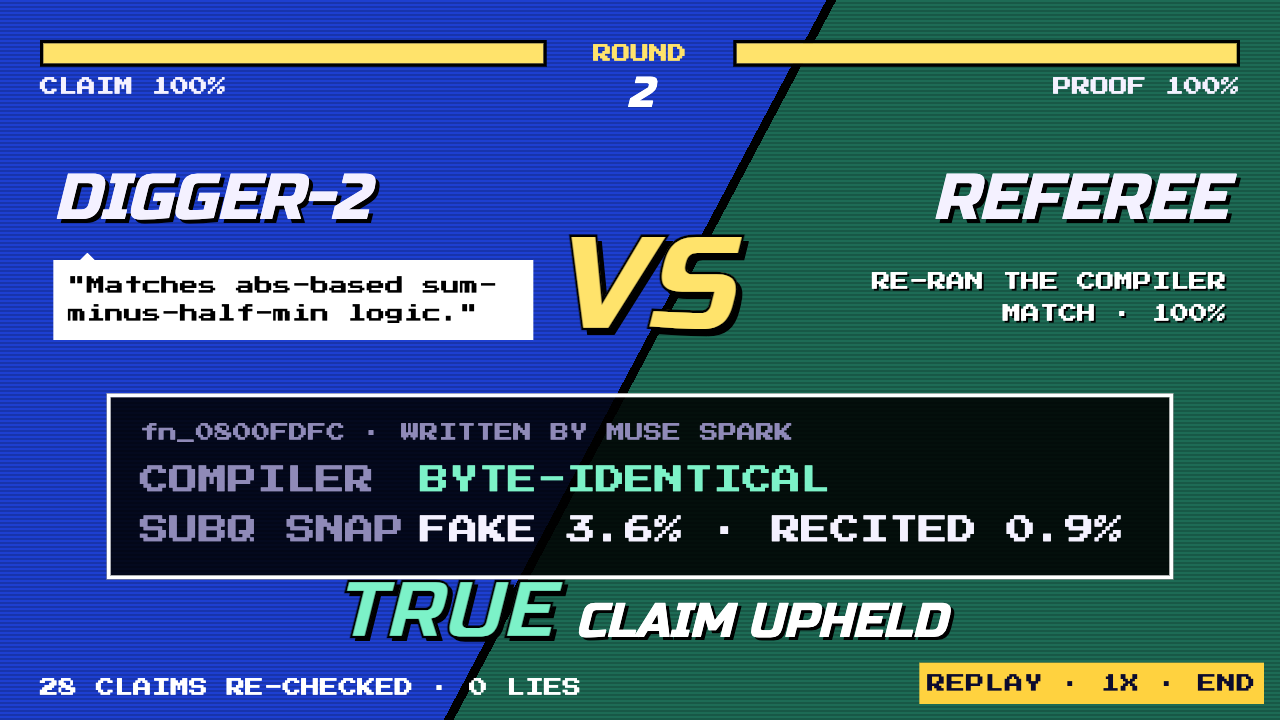
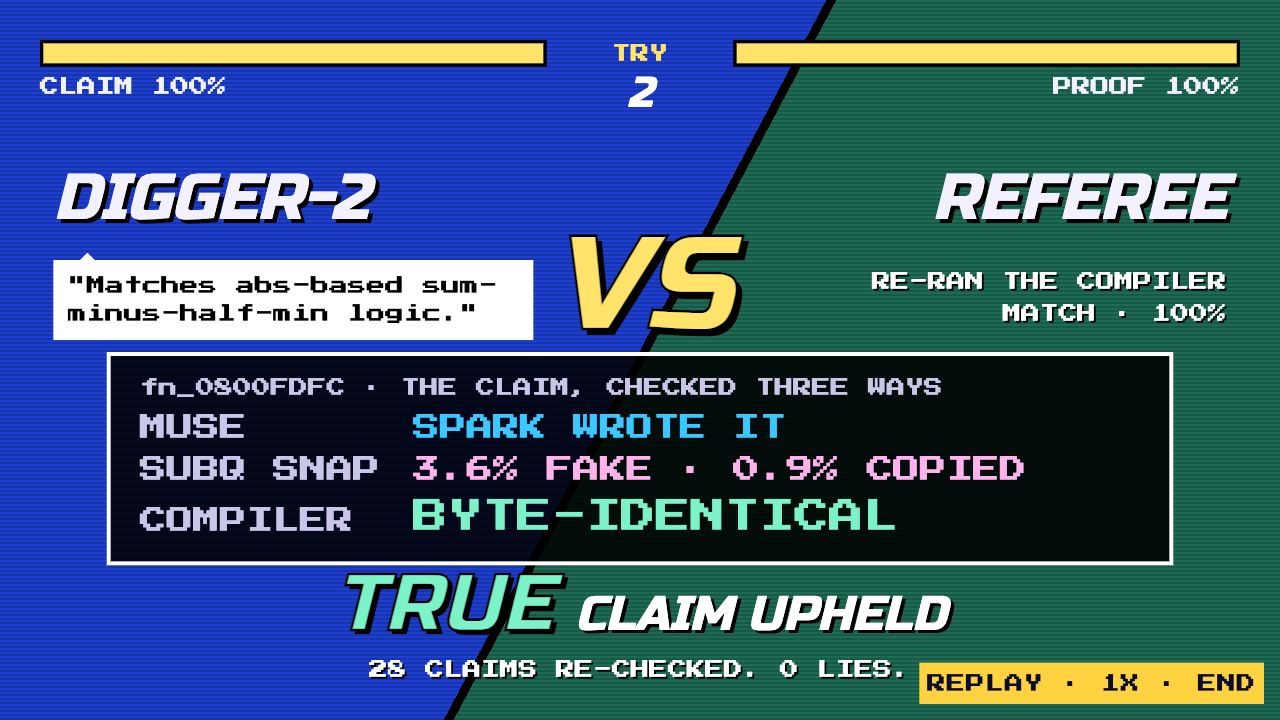
stage: Versus says who wrote it, who checked it and who proved it
Evaluator round 1 (Versus 6.4/10): the verdict overlapped the evidence and
'recited' meant nothing to a layperson. The evidence now reads MUSE: Spark
wrote it, SUBQ SNAP: 3.6% fake, 0.9% copied, COMPILER: byte-identical (largest,
last); the verdict sits clear below it with '28 claims re-checked. 0 lies.'
promoted under it, and TRY replaces ROUND. QA also checks inline-block labels.

Changed region(s): [[0.0312, 0.4889, 0.9375, 0.9778], [0.4375, 0.0611, 0.5312, 0.0917]]

diff --git a/stage/src/scenes/versus.ts b/stage/src/scenes/versus.ts
@@ -25,7 +25,7 @@ export class VersusScene implements Scene {
       <div class="fight">
         <div class="top">
           <div><div class="hbar"><i data-k="hpL"></i></div><div class="cap" data-k="capL"></div></div>
-          <div class="round">ROUND<b data-k="round">1</b></div>
+          <div class="round">TRY<b data-k="round">1</b></div>
           <div><div class="hbar r"><i data-k="hpR" style="width:100%"></i></div><div class="cap r">PROOF 100%</div></div>
         </div>
         <div class="names"><span data-k="digger">DIGGER</span><span>REFEREE</span></div>
@@ -57,7 +57,7 @@ export class VersusScene implements Scene {
       && (performance.now() - this.checkedAt > 4000 || !this.checked)) this.upheld(ctx, s.lastChecked);
     const tl = this.el.querySelector('[data-k="tally"]')!;
     const tt = this.shown ? `LIE ${this.shown.index} OF ${s.falseClaims.length} CAUGHT · ${s.claimsMade} CLAIMS CHECKED`
-      : this.checked ? `${s.claimsMade} CLAIMS RE-CHECKED · ${s.falseClaims.length} LIES` : '';
+      : this.checked ? `${s.claimsMade} CLAIMS RE-CHECKED. ${s.falseClaims.length} LIES.` : '';
     if (tl.textContent !== tt) tl.textContent = tt;
   }
 
@@ -80,9 +80,11 @@ export class VersusScene implements Scene {
     q('digger').textContent = c.actor.toUpperCase();
     q('speech').textContent = `"${c.text}"`;
     q('refline').innerHTML = `RE-RAN THE COMPILER<br>${esc(c.status)} · ${c.match_pct.toFixed(0)}%`;
-    const lines = [`<div class="where">${esc(c.fn)} · WRITTEN BY ${esc(modelName(c.model ?? s.model))}</div>`,
-      `<div><span class="lbl">COMPILER</span><span class="exp">${c.status === 'MATCH' ? 'BYTE-IDENTICAL' : esc(c.status)}</span></div>`];
+    // Muse wrote it. Snap checked it. The compiler proved it (largest line, last).
+    const lines = [`<div class="where">${esc(c.fn)} · THE CLAIM, CHECKED THREE WAYS</div>`,
+      `<div class="m"><span class="lbl">MUSE</span>${esc(modelName(c.model ?? s.model).replace(/^MUSE /, ''))} WROTE IT</div>`];
     lines.push(...gateLines(s, c.reviews));
+    lines.push(`<div class="c"><span class="lbl">COMPILER</span><span class="exp">${c.status === 'MATCH' ? 'BYTE-IDENTICAL' : esc(c.status)}</span></div>`);
     q('evidence').innerHTML = lines.join('');
     const ko = q('ko');
     ko.innerHTML = c.upheld ? '<b>TRUE</b><span>CLAIM UPHELD</span>' : '<b>NO</b><span>NOT ACCEPTED</span>';
@@ -129,9 +131,9 @@ export class VersusScene implements Scene {
 /** The fake gate on a match: per-lab scores when they belong to this match, else the run's screening so far. */
 function gateLines(s: State, reviews: Review[]): string[] {
   if (reviews.length) {
-    return reviews.map((r) => `<div><span class="lbl">${esc(LAB[r.reviewer] ?? r.reviewer.toUpperCase())}</span>FAKE ${pc(r.fakematch_p)} · RECITED ${pc(r.recital_p)}</div>`);
+    return reviews.map((r) => `<div class="g"><span class="lbl">${esc(LAB[r.reviewer] ?? r.reviewer.toUpperCase())}</span>${pc(r.fakematch_p)} FAKE · ${pc(r.recital_p)} COPIED</div>`);
   }
   if (!s.reviews.length) return [];
   const worst = Math.max(...s.reviews.map((r) => r.fakematch_p ?? 0));
-  return [`<div><span class="lbl">SUBQ SNAP</span>SCREENED ${s.reviews.length} · WORST FAKE ${pc(worst)}</div>`];
+  return [`<div class="g"><span class="lbl">SUBQ SNAP</span>CHECKED ${s.reviews.length} · WORST ${pc(worst)} FAKE</div>`];
 }

diff --git a/stage/src/style.css b/stage/src/style.css
@@ -422,3 +422,13 @@ body.obs .split .game-frame .ph { display: none; }
 .split .legend .sw { display: inline-grid; place-items: center; width: 40px; height: 40px; font-size: 28px; color: var(--midnight); }
 .split .legend .sw.ok { background: var(--mint); }
 .split .legend .sw.q { background: var(--guess); margin-left: 34px; }
+
+/* ---------- VERSUS v2: verdict clear of the evidence, plain words, the tally promoted ---------- */
+.versus .evidence { top: 528px; padding: 26px 44px; font-size: 40px; line-height: 1.55; }
+.versus .evidence .lbl { width: 410px; color: #c9c6e8; font-size: 40px; }
+.versus .evidence .where { font-size: 28px; color: #c9c6e8; margin-bottom: 8px; }
+.versus .evidence .m { color: var(--cyan); }
+.versus .evidence .g { color: #ffb3ec; }
+.versus .evidence .c { font-size: 52px; }
+.versus .ko { top: 846px; }
+.versus .tally { left: 0; right: 0; margin: 0 auto; width: max-content; bottom: auto; top: 990px; text-align: center; font-size: 28px; text-shadow: 3px 3px 0 #000; }
